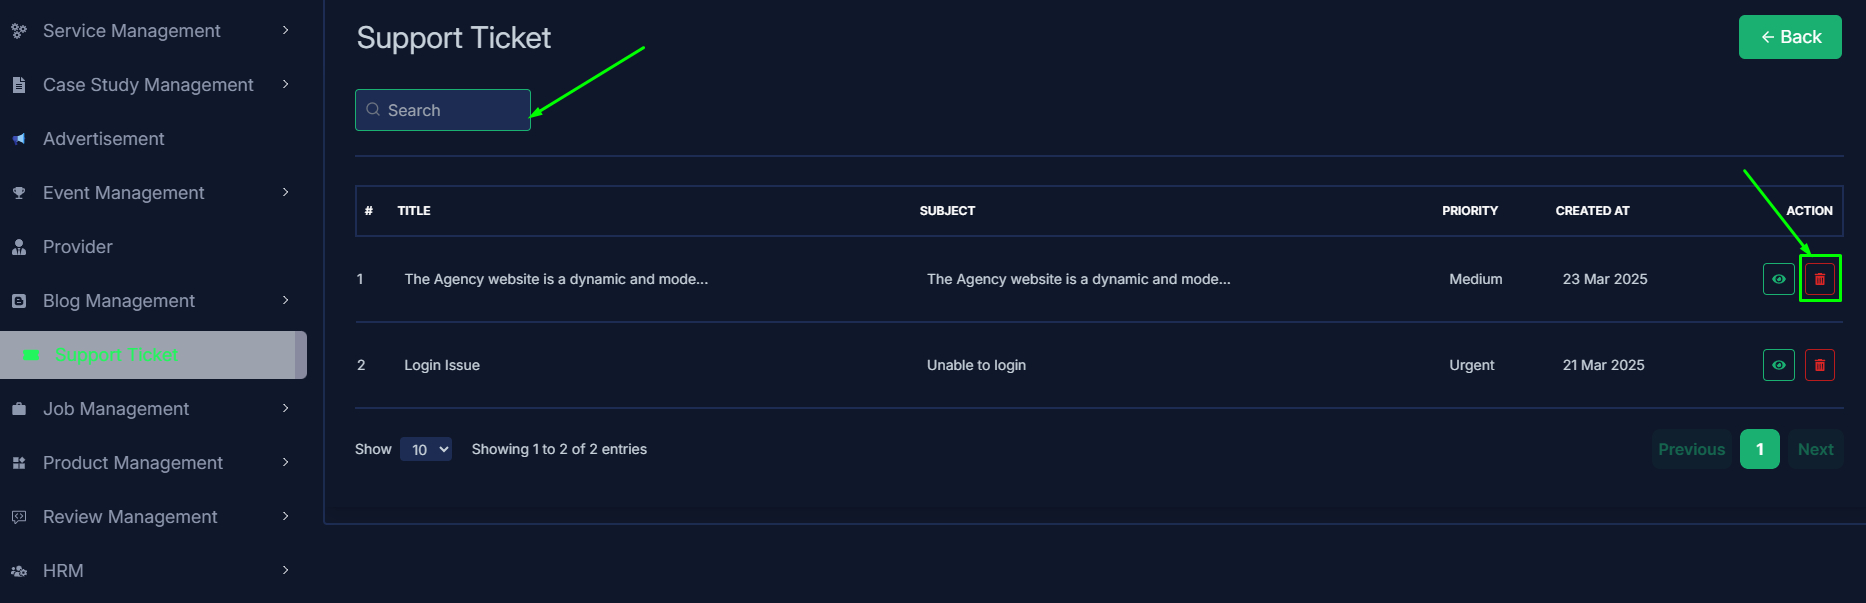
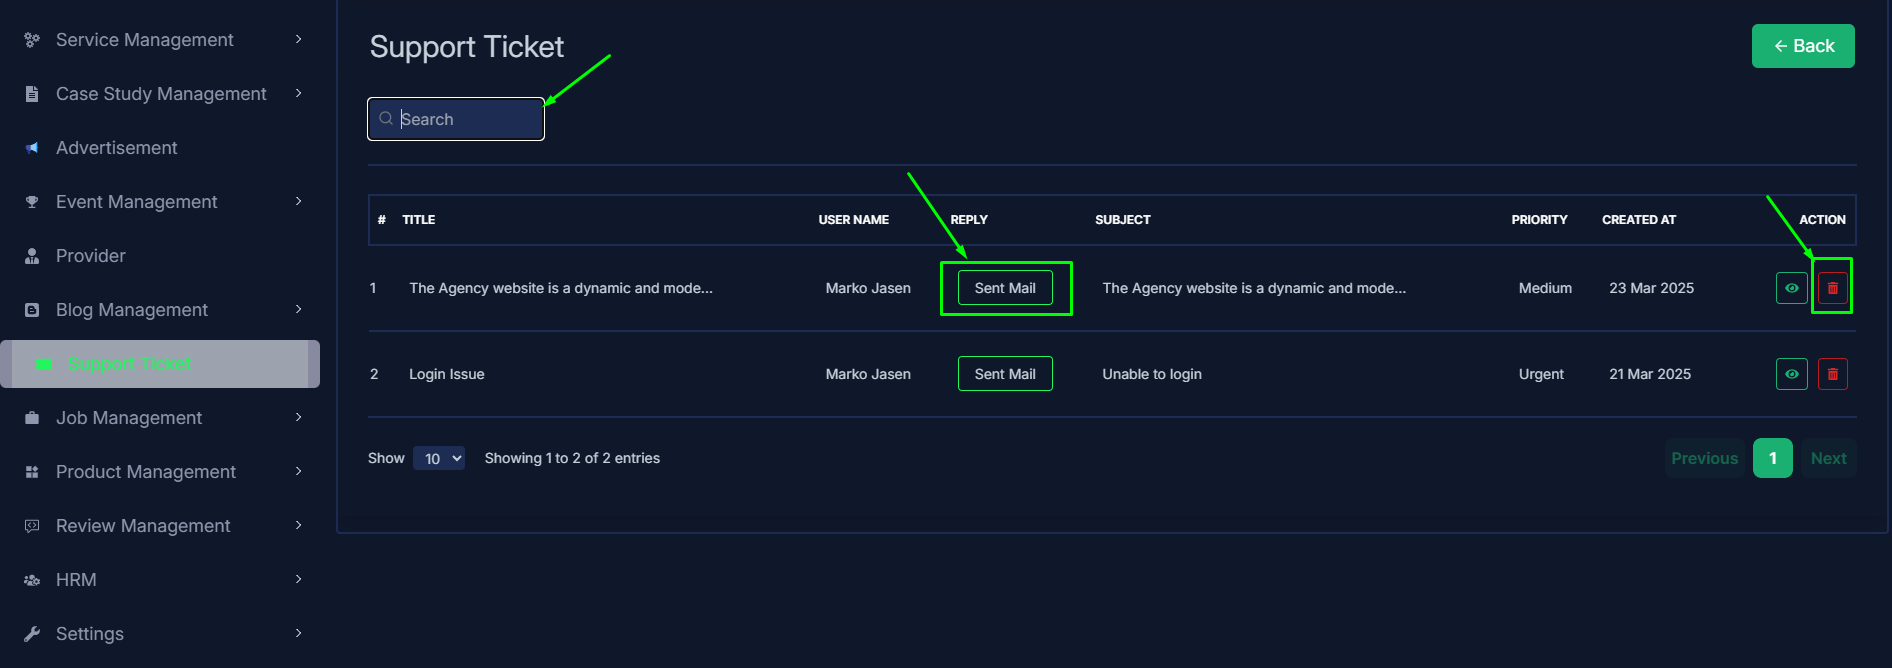
job and support tickets complete

diff --git a/docs/Admin/supportTickets.md b/docs/Admin/supportTickets.md
@@ -10,5 +10,12 @@ sidebar_position: 8
 
 ![Support Tickets](./img/supports.png)
 
-- Admin can view the support ticket details by clicking the **View icon** button.
+- Admin can reply a support ticket by clicking the **Sent Mail** button.
 
+![Support Ticket](./img/ticket_reply.png)
+
+
+- Admin can view the support ticket details by clicking the **View icon** button.
+- A page will open where admin can view the support ticket details like name, email, subject, message.
+
+![Support Ticket](./img/details_ticket.png)
